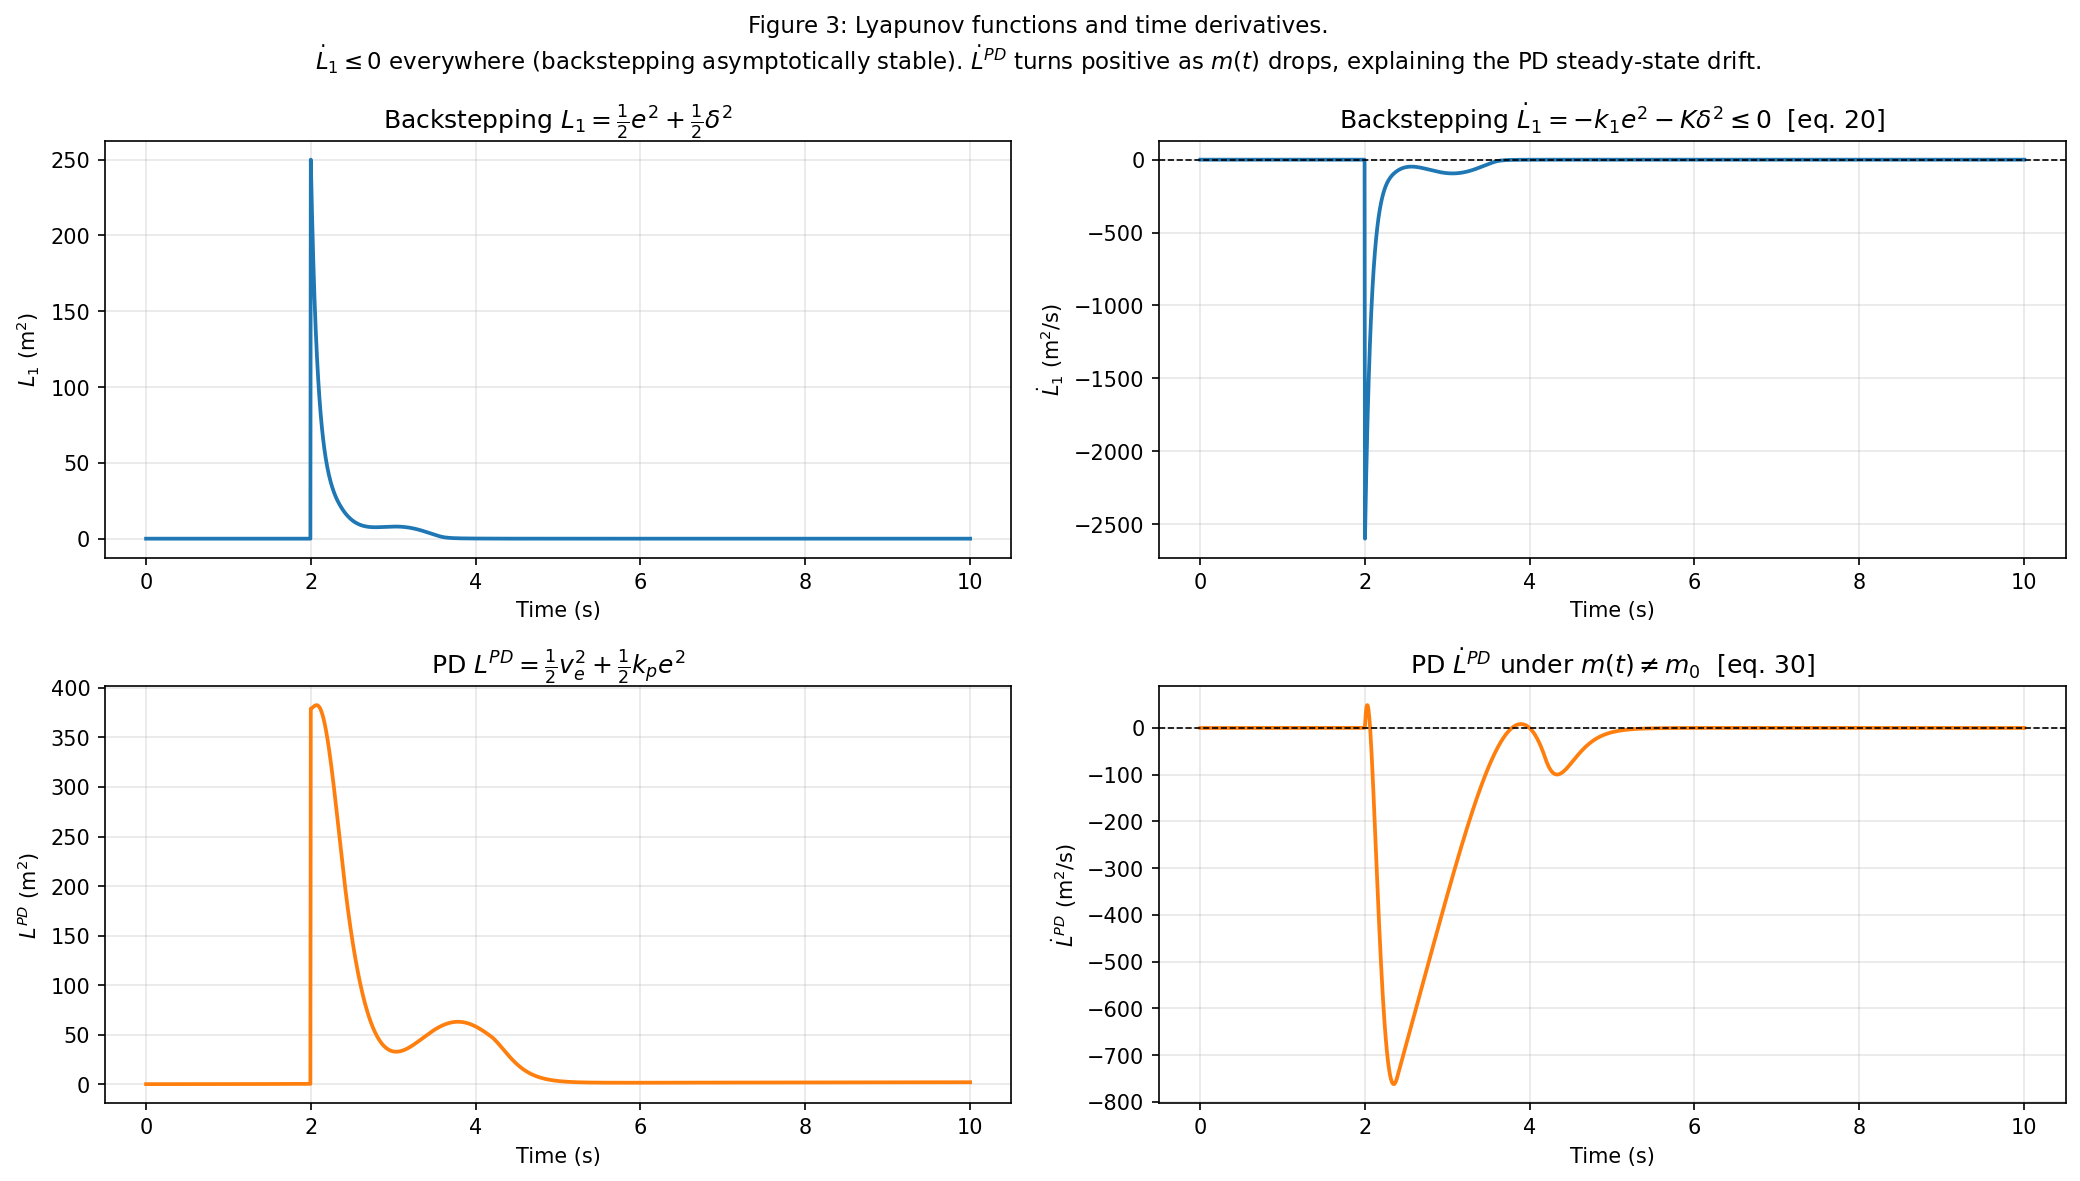
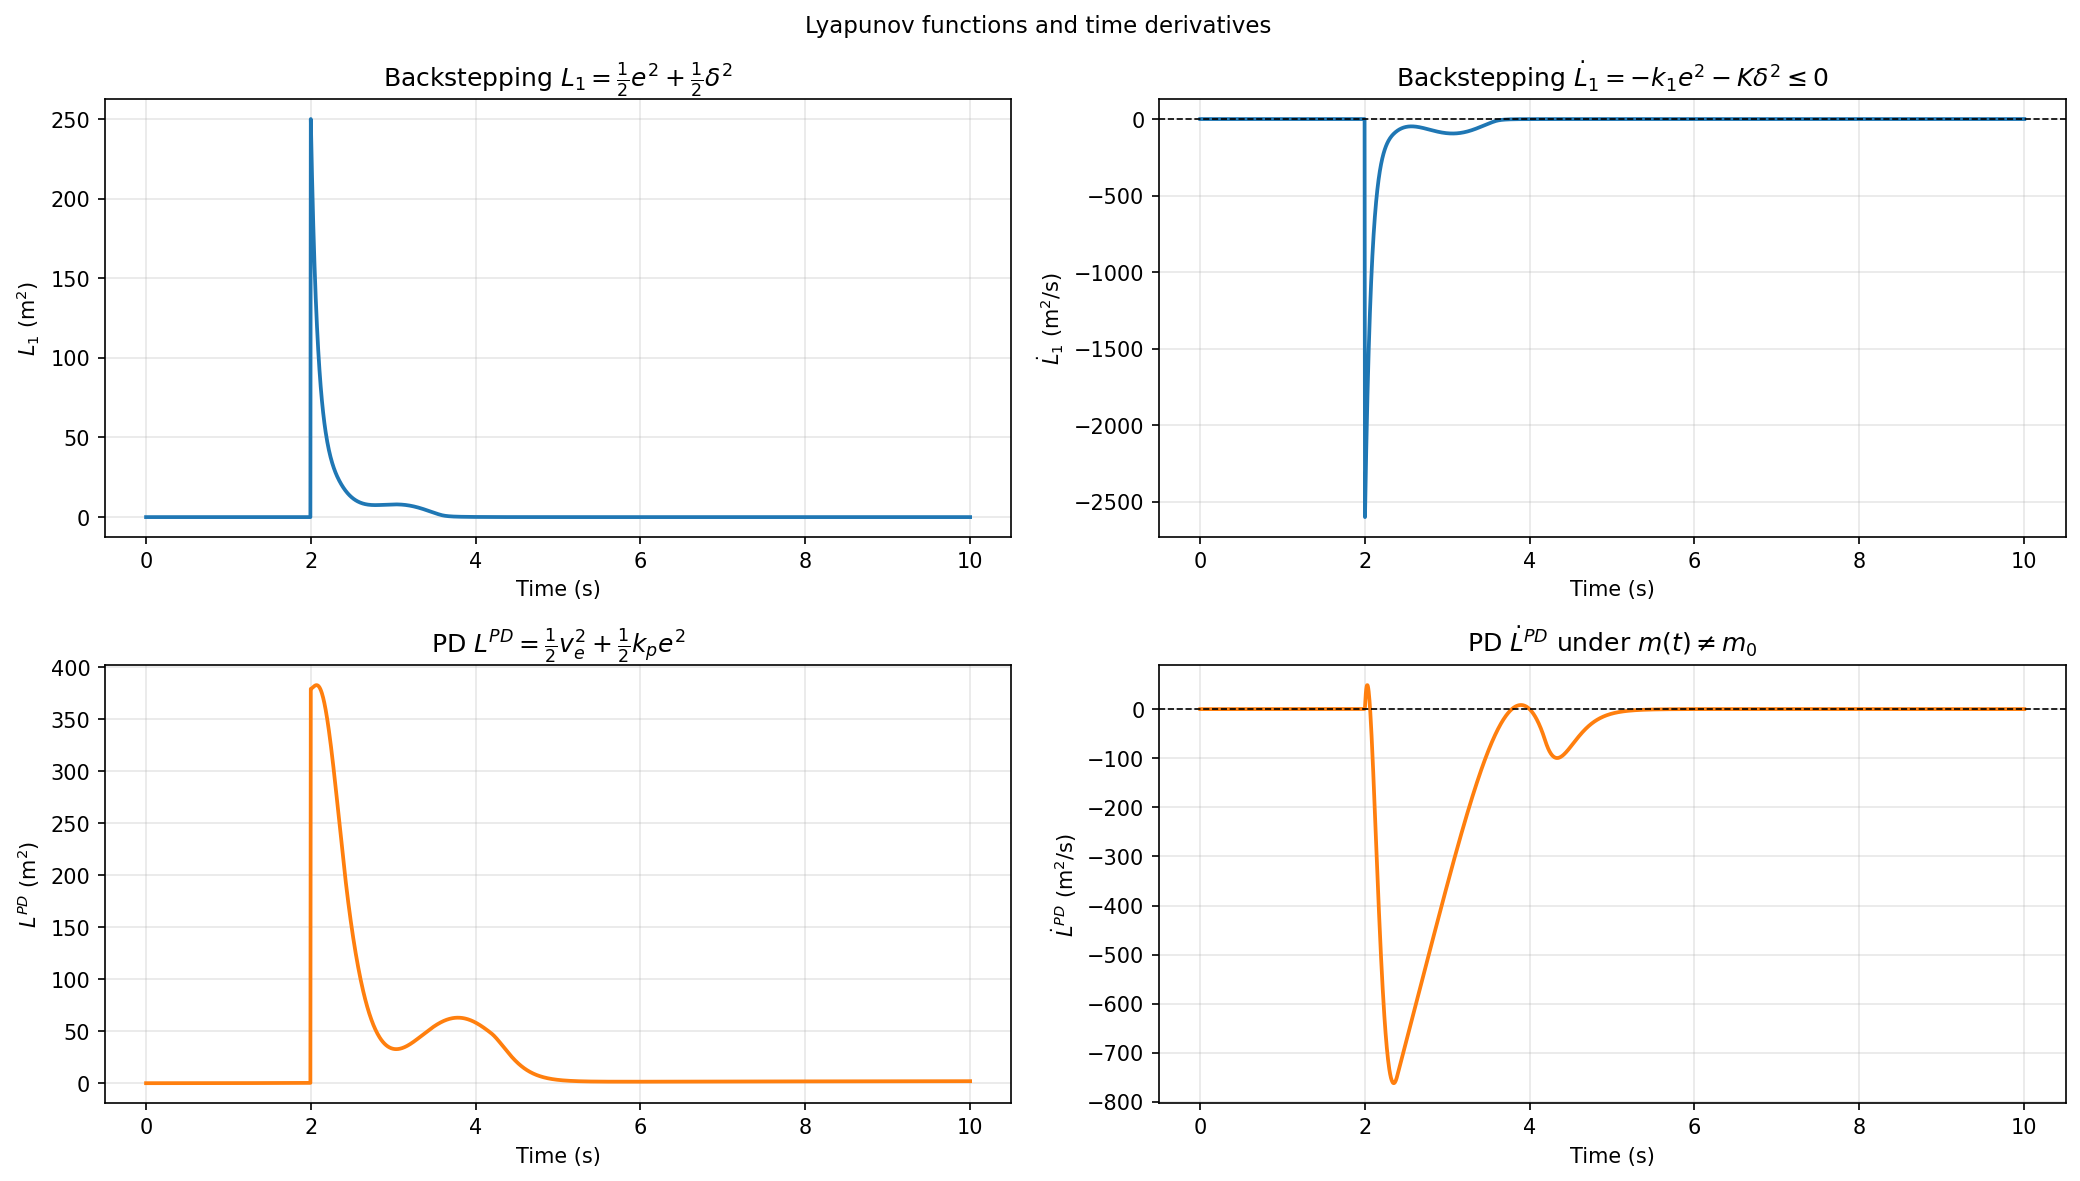
Updated code

diff --git a/project_3_Backstepping_Control_of_a_Rocket_with_Decreasing_Mass/src/visualization.py b/project_3_Backstepping_Control_of_a_Rocket_with_Decreasing_Mass/src/visualization.py
@@ -9,7 +9,7 @@ from matplotlib.lines import Line2D
 from matplotlib.animation import FuncAnimation, PillowWriter
 
 # ---------------------------------------------------------------------------
-# Rocket polygon: smooth ogive nose + slim body + swept fins
+# Rocket polygon
 # ---------------------------------------------------------------------------
 _N_NOSE = 14   # points per nose quarter-arc
 
@@ -93,7 +93,7 @@ class Visualizer:
         print(f"  saved {path}")
 
     # ------------------------------------------------------------------
-    # System diagram (no simulation data needed)
+    # System diagram 
     # ------------------------------------------------------------------
     def system_diagram(self):
         fig, ax = plt.subplots(figsize=(3.8, 5.8))
@@ -159,11 +159,7 @@ class Visualizer:
             ax.set_title(f"Altitude Tracking — {label}")
             ax.legend()
             ax.grid(True, alpha=0.3)
-        fig.suptitle(
-            "Figure 2: Altitude $z(t)$ vs. reference $z_d(t)$.\n"
-            "Backstepping maintains zero steady-state error; PD accumulates a growing offset as $m(t)$ decreases.",
-            fontsize=11,
-        )
+        ax.set_title("Altitude tracking", fontsize=11)
         fig.tight_layout()
         self._save(fig, "altitude_tracking.png")
 
@@ -180,19 +176,14 @@ class Visualizer:
         ax.axhline(0, color="k", lw=0.8, ls="--")
         ax.set_xlabel("Time (s)")
         ax.set_ylabel("Altitude error $e$ (m)")
-        ax.set_title("Tracking Error $e(t) = z(t) - z_d(t)$")
+        ax.set_title("Tracking Error $e(t) = z(t) - z_d(t)$", fontsize=11)
         ax.legend()
         ax.grid(True, alpha=0.3)
-        fig.suptitle(
-            "Tracking error $e(t)$: backstepping converges to zero; "
-            "PD converges to a nonzero steady-state offset that grows as fuel burns.",
-            fontsize=10,
-        )
         fig.tight_layout()
         self._save(fig, "tracking_error.png")
 
     # ------------------------------------------------------------------
-    # Lyapunov functions and their derivatives (2 × 2)
+    # Lyapunov functions and their derivatives
     # ------------------------------------------------------------------
     def lyapunov(self):
         r = self.r
@@ -209,7 +200,7 @@ class Visualizer:
         axes[0, 1].plot(t, r["bs"]["dL1"], color="tab:blue", lw=1.8)
         axes[0, 1].axhline(0, color="k", lw=0.8, ls="--")
         axes[0, 1].set_title(
-            r"Backstepping $\dot{L}_1 = -k_1 e^2 - K\delta^2 \leq 0$  [eq. 20]")
+            r"Backstepping $\dot{L}_1 = -k_1 e^2 - K\delta^2 \leq 0$")
         axes[0, 1].set_xlabel("Time (s)")
         axes[0, 1].set_ylabel(r"$\dot{L}_1$ (m$^2$/s)")
         axes[0, 1].grid(True, alpha=0.3)
@@ -224,15 +215,13 @@ class Visualizer:
         axes[1, 1].plot(t, r["pd"]["dL_PD"], color="tab:orange", lw=1.8)
         axes[1, 1].axhline(0, color="k", lw=0.8, ls="--")
         axes[1, 1].set_title(
-            r"PD $\dot{L}^{PD}$ under $m(t) \neq m_0$  [eq. 30]")
+            r"PD $\dot{L}^{PD}$ under $m(t) \neq m_0$")
         axes[1, 1].set_xlabel("Time (s)")
         axes[1, 1].set_ylabel(r"$\dot{L}^{PD}$ (m$^2$/s)")
         axes[1, 1].grid(True, alpha=0.3)
 
         fig.suptitle(
-            "Figure 3: Lyapunov functions and time derivatives.\n"
-            r"$\dot{L}_1 \leq 0$ everywhere (backstepping asymptotically stable). "
-            r"$\dot{L}^{PD}$ turns positive as $m(t)$ drops, explaining the PD steady-state drift.",
+            "Lyapunov functions and time derivatives",
             fontsize=11,
         )
         fig.tight_layout()
@@ -250,21 +239,13 @@ class Visualizer:
                 label="PD baseline")
         ax.set_xlabel("Time (s)")
         ax.set_ylabel("Thrust $T$ (N)")
-        ax.set_title("Commanded Thrust $T(t)$")
+        ax.set_title("Commanded Thrust $T(t)$", fontsize=11)
         ax.legend()
         ax.grid(True, alpha=0.3)
-        fig.suptitle(
-            "Figure 4: Thrust $T(t)$. "
-            "Backstepping reduces thrust as $m(t)$ falls (lighter rocket needs less force); "
-            "PD keeps approximately constant thrust.",
-            fontsize=10,
-        )
         fig.tight_layout()
         self._save(fig, "thrust.png")
 
-    # ------------------------------------------------------------------
-    # Phase portrait — both trajectories on one axes, no colourbar
-    # ------------------------------------------------------------------
+
     def phase_portrait(self):
         r = self.r
         fig, ax = plt.subplots(figsize=(8, 6))
@@ -274,13 +255,13 @@ class Visualizer:
         e_pd  = r["pd"]["e"]
         ve_pd = r["pd"]["v_e"]
 
-        ax.plot(e_bs,  d_bs,  color="tab:blue",   lw=2.0,
+        ax.plot(e_bs,  d_bs,  color="tab:blue", lw=2.0,
                 label=r"Backstepping $(e,\,\delta)$")
         ax.plot(e_pd,  ve_pd, color="tab:orange",  lw=2.0,
                 label=r"PD baseline $(e,\,v_e)$")
 
         # Start markers
-        ax.plot(e_bs[0],  d_bs[0],  "o", ms=10, color="tab:blue",   zorder=6)
+        ax.plot(e_bs[0],  d_bs[0],  "o", ms=10, color="tab:blue", zorder=6)
         ax.plot(e_pd[0],  ve_pd[0], "o", ms=10, color="tab:orange", zorder=6)
 
         # Finish markers
@@ -294,7 +275,7 @@ class Visualizer:
             r"Backstepping error $\delta$ / velocity error $v_e$  (m/s)",
             fontsize=11,
         )
-        ax.set_title("Phase Portrait", fontsize=13)
+        ax.set_title("Phase Portrait", fontsize=11)
 
         extra = [
             Line2D([0], [0], marker="o", color="gray", ms=9,  ls="", label="Start"),
@@ -304,17 +285,11 @@ class Visualizer:
         ax.legend(handles=handles + extra, fontsize=10)
         ax.grid(True, alpha=0.3)
 
-        fig.suptitle(
-            "Figure 5: Phase portraits.\n"
-            r"Backstepping ($\circ\to\star$) spirals into $(0,0)$; "
-            "PD converges to off-origin equilibrium $e^* > 0$.",
-            fontsize=11,
-        )
         fig.tight_layout()
         self._save(fig, "phase_portrait.png")
 
     # ------------------------------------------------------------------
-    # Animation — realistic rocket silhouette
+    # Animation 
     # ------------------------------------------------------------------
     def animation(self):
         r    = self.r
